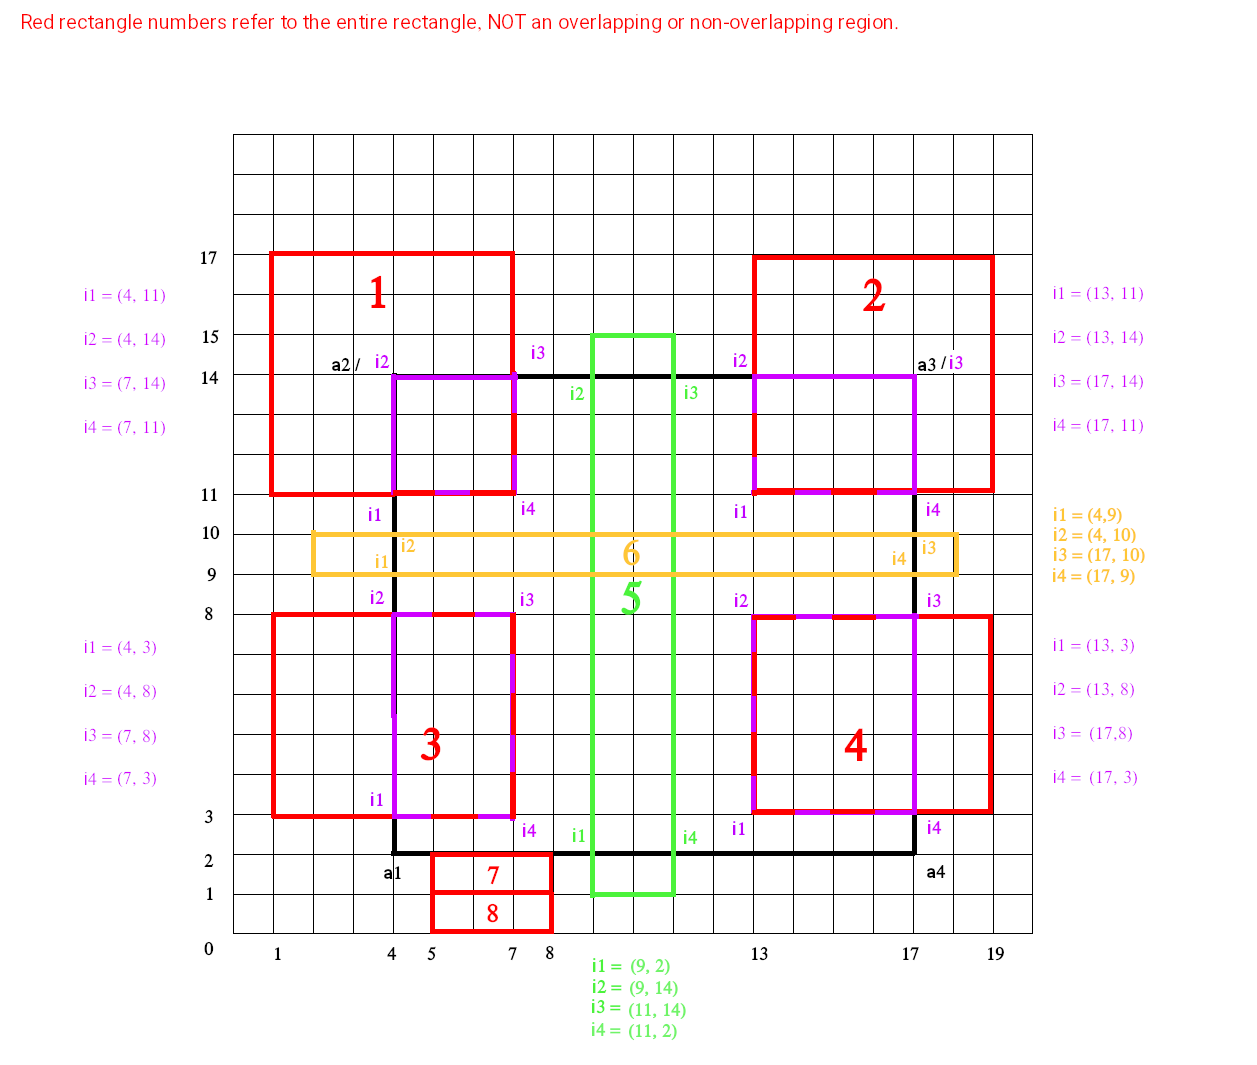
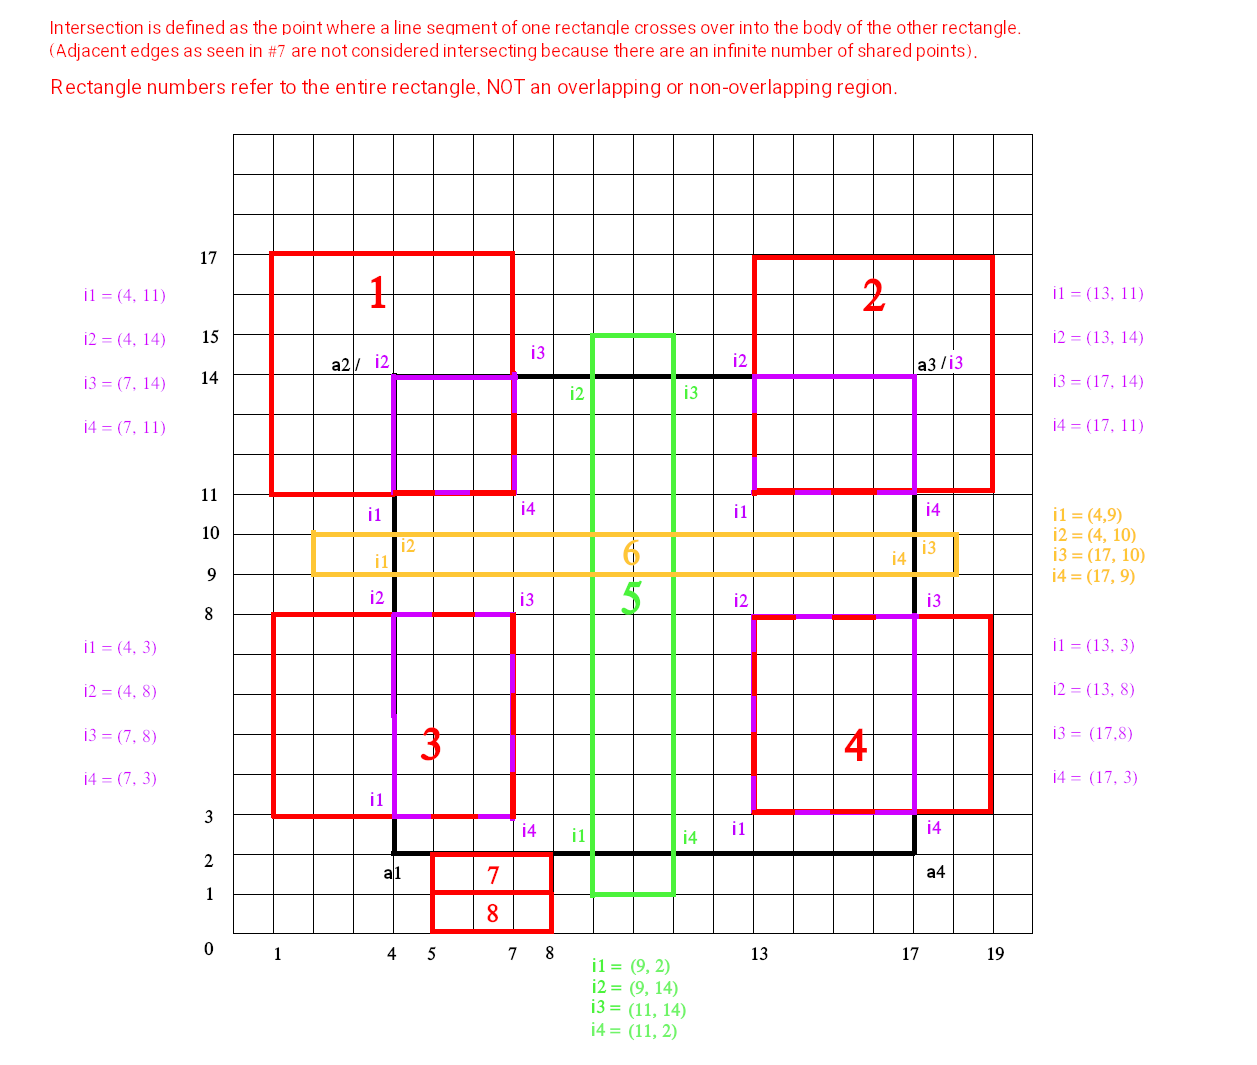
Null checks, various light edits

Changed region(s): [[0.031, 0.0, 0.8067, 0.093]]

diff --git a/src/test/java/org/loverde/rectangles/RectangleTest_getOverlappingRegion.java b/src/test/java/org/loverde/rectangles/RectangleTest_getOverlappingRegion.java
@@ -17,15 +17,21 @@ public class RectangleTest_getOverlappingRegion {
         );
     }
 
+    @Test
+    public void getOverlappingRegionWith_nullRectangle() {
+        final Exception e = assertThrows(IllegalArgumentException.class, () -> r1.getOverlappingRegionWith(null));
+        assertEquals("getOverlappingRegionWith:  rectangle cannot be null", e.getMessage());
+    }
+
     // See intersection.png, rectangle #1.  The bottom right of the rectangle overlaps with r1.
     @Test
-    public void getOverlappingRegion_bottomRightOfSecondRectangleOverlaps() {
+    public void getOverlappingRegionWith_bottomRightOfSecondRectangleOverlaps() {
         final Rectangle r2 = new Rectangle(
             new Point(1, 11),
             new Point(7, 17)
         );
 
-        final Rectangle iRect = r1.getOverlappingRegion(r2);
+        final Rectangle iRect = r1.getOverlappingRegionWith(r2);
 
         assertEquals(new Point(4, 11), iRect.getLowerLeft());
         assertEquals(new Point(4, 14), iRect.getUpperLeft());
@@ -35,13 +41,13 @@ public class RectangleTest_getOverlappingRegion {
 
     // See intersection.png, rectangle #2.  The bottom left of the rectangle overlaps with r1.
     @Test
-    public void getOverlappingRegion_bottomLeftOfSecondRectangleOverlaps() {
+    public void getOverlappingRegionWith_bottomLeftOfSecondRectangleOverlaps() {
         final Rectangle r2 = new Rectangle(
             new Point(13, 11),
             new Point(19, 17)
         );
 
-        final Rectangle iRect = r1.getOverlappingRegion(r2);
+        final Rectangle iRect = r1.getOverlappingRegionWith(r2);
 
         assertEquals(new Point(13, 11), iRect.getLowerLeft());
         assertEquals(new Point(13, 14), iRect.getUpperLeft());
@@ -51,13 +57,13 @@ public class RectangleTest_getOverlappingRegion {
 
     // See intersection.png, rectangle #3.  The entire right side of the rectangle overlaps with r1.
     @Test
-    public void getOverlappingRegion_rightSideOfSecondRectangleOverlaps() {
+    public void getOverlappingRegionWith_rightSideOfSecondRectangleOverlaps() {
         final Rectangle r2 = new Rectangle(
             new Point(1, 3),
             new Point(7, 8)
         );
 
-        final Rectangle iRect = r1.getOverlappingRegion(r2);
+        final Rectangle iRect = r1.getOverlappingRegionWith(r2);
 
         assertEquals(new Point(4, 3), iRect.getLowerLeft());
         assertEquals(new Point(4, 8), iRect.getUpperLeft());
@@ -67,13 +73,13 @@ public class RectangleTest_getOverlappingRegion {
 
     // See intersection.png, rectangle #4.  The entire left side of the rectangle overlaps with r1.
     @Test
-    public void getOverlappingRegion_leftSideOfSecondRectangleOverlaps() {
+    public void getOverlappingRegionWith_leftSideOfSecondRectangleOverlaps() {
         final Rectangle r2 = new Rectangle(
             new Point(13, 3),
             new Point(19, 8)
         );
 
-        final Rectangle iRect = r1.getOverlappingRegion(r2);
+        final Rectangle iRect = r1.getOverlappingRegionWith(r2);
 
         assertEquals(new Point(13, 3), iRect.getLowerLeft());
         assertEquals(new Point(13, 8), iRect.getUpperLeft());
@@ -83,13 +89,13 @@ public class RectangleTest_getOverlappingRegion {
 
     // See intersection.png, rectangle #5.  This time, there are four points of intersection.
     @Test
-    public void getOverlappingRegion_fromFourPointsOfIntersection1() {
+    public void getOverlappingRegionWith_fromFourPointsOfIntersection1() {
         final Rectangle r2 = new Rectangle(
             new Point(9, 1),
             new Point(11, 15)
         );
 
-        final Rectangle iRect = r1.getOverlappingRegion(r2);
+        final Rectangle iRect = r1.getOverlappingRegionWith(r2);
 
         assertEquals(new Point(9, 2), iRect.getLowerLeft());
         assertEquals(new Point(9, 14), iRect.getUpperLeft());
@@ -99,13 +105,13 @@ public class RectangleTest_getOverlappingRegion {
 
     // See intersection.png, rectangle #6.  This time, there are four points of intersection.
     @Test
-    public void getOverlappingRegion_fromFourPointsOfIntersection2() {
+    public void getOverlappingRegionWith_fromFourPointsOfIntersection2() {
         final Rectangle r2 = new Rectangle(
             new Point(4, 9),
             new Point(17, 10)
         );
 
-        final Rectangle iRect = r1.getOverlappingRegion(r2);
+        final Rectangle iRect = r1.getOverlappingRegionWith(r2);
 
         assertEquals(new Point(4, 9), iRect.getLowerLeft());
         assertEquals(new Point(4, 10), iRect.getUpperLeft());
@@ -115,29 +121,29 @@ public class RectangleTest_getOverlappingRegion {
 
     // See intersection.png, rectangle #7.  There are no overlapping regions.
     @Test
-    public void getOverlappingRegion_noIntersection() {
+    public void getOverlappingRegionWith_noIntersection() {
         final Rectangle r2 = new Rectangle(
             new Point(5,1),
             new Point(8, 2)
         );
 
-        assertNull(r1.getOverlappingRegion(r2));
+        assertNull(r1.getOverlappingRegionWith(r2));
     }
 
     // See intersection.png, rectangle #8.  There are no overlapping regions.
     @Test
-    public void getOverlappingRegion_noIntersection2() {
+    public void getOverlappingRegionWith_noIntersection2() {
         final Rectangle r2 = new Rectangle(
             new Point(5,0),
             new Point(8, 1)
         );
 
-        assertNull(r1.getOverlappingRegion(r2));
+        assertNull(r1.getOverlappingRegionWith(r2));
     }
 
     // If two identical rectangles are perfectly overlaid, they are regarded as overlapping
     @Test
-    public void getOverlappingRegion_perfectlyOverlapped() {
-        assertEquals(r1, r1.getOverlappingRegion(r1));
+    public void getOverlappingRegionWith_perfectlyOverlapped() {
+        assertEquals(r1, r1.getOverlappingRegionWith(r1));
     }
 }

diff --git a/src/main/java/org/loverde/rectangles/Rectangle.java b/src/main/java/org/loverde/rectangles/Rectangle.java
@@ -1,5 +1,6 @@
 package org.loverde.rectangles;
 
+import java.util.Collections;
 import java.util.HashSet;
 import java.util.Set;
 import java.util.Objects;
@@ -60,19 +61,23 @@ public class Rectangle {
     }
 
     /**
-     * Gets A rectangle representing the region of overlap between this rectangle and rectangle <em>r</em>.  This is
+     * Gets the rectangle representing the region of overlap between this rectangle and rectangle <em>r</em>.  This is
      * NOT a list of the points of intersection, though either 2 or 4 of these vertices ARE the points of intersection.
      * To get just the points of intersection, use {@link #getIntersectionsWith}.
      *
      * @param r The rectangle to calculate the overlap with
      *
-     * @return A rectangle representing the region of overlap between this rectangle and rectangle <em>r</em>, or
+     * @return The rectangle representing the region of overlap between this rectangle and rectangle <em>r</em>, or
      *         <em>null</em> if there is no shared region.
+     *
+     * @throws IllegalArgumentException If <em>r</em> is null
      */
-    public Rectangle getOverlappingRegion(final Rectangle r) {
+    public Rectangle getOverlappingRegionWith(final Rectangle r) {
+        if(r == null) throw new IllegalArgumentException("getOverlappingRegionWith:  rectangle cannot be null");
+
         if(equals(r)) return this;  // Perfectly aligned, identical rectangles can exit early
 
-        // To visualize what this algorithm is doing, look at rectangles 1 and 2 in junit_diagram.png.
+        // To visualize what this algorithm is doing, look at rectangles 1 and 2 in intersections.png.
         //
         // GETTING THE X VALUE OF THE ORIGIN (BOTTOM LEFT VERTEX):
         //
@@ -130,31 +135,36 @@ public class Rectangle {
      *
      * @param r2 The rectangle to get intersections with
      *
-     * @return Array containing 0, 2 or 4 points of intersection.  This method never returns null.
+     * @return An unmodifiable set containing 0, 2 or 4 points of intersection.  This method never returns null.
+     *
+     * @throws IllegalArgumentException If <em>r2</em> is null
      */
     public Set<Point> getIntersectionsWith(final Rectangle r2) {
-        final Rectangle iRect = getOverlappingRegion(r2);
+        if(r2 == null) throw new IllegalArgumentException("getIntersectionsWith:  rectangle cannot be null");
+
+        final Set<Point> intersections = new HashSet<>();
+        final Rectangle overlap = getOverlappingRegionWith(r2);
 
         // Okay, we have the overlap region, but which vertices are intersecting?  It could be 2 or all 4.
         // Intersections will have either an X value or a Y value in common.  If they have both in common,
         // then they have touching vertices, and thus are not intersecting.  So, it's either one or the
         // other.
 
-        final double r1x1 = getLowerLeft().getX();
-        final double r1y1 = getLowerLeft().getY();
-        final double r1x2 = getLowerRight().getX();
-        final double r1y2 = getLowerRight().getY();
+        if(overlap != null) {
+            final double r1x1 = getLowerLeft().getX();
+            final double r1y1 = getLowerLeft().getY();
+            final double r1x2 = getLowerRight().getX();
+            final double r1y2 = getLowerRight().getY();
 
-        final double r2x1 = r2.getLowerLeft().getX();
-        final double r2y1 = r2.getLowerLeft().getY();
-        final double r2x2 = r2.getUpperRight().getX();
-        final double r2y2 = r2.getUpperRight().getY();
-
-        final Set<Point> intersections = new HashSet<>();
-
+            final double r2x1 = r2.getLowerLeft().getX();
+            final double r2y1 = r2.getLowerLeft().getY();
+            final double r2x2 = r2.getUpperRight().getX();
+            final double r2y2 = r2.getUpperRight().getY();
 
 
-        return intersections;
+        }
+
+        return Collections.unmodifiableSet(intersections);
     }
 
     /**
@@ -164,8 +174,12 @@ public class Rectangle {
      * @param r2 The rectangle to test containment with
      *
      * @return True if containment exists, false if not
+     *
+     * @throws IllegalArgumentException If <em>r2</em> is null
      */
     public boolean hasContainmentWith(final Rectangle r2) {
+        if(r2 == null) throw new IllegalArgumentException("hasContainmentWith:  rectangle cannot be null");
+
         final double thisLeftX = getLowerLeft().getX();
         final double thisRightX = getLowerRight().getX();
         final double thisBottomY = getLowerLeft().getY();

diff --git a/src/test/java/org/loverde/rectangles/RectangleTest_hasContainmentWith.java b/src/test/java/org/loverde/rectangles/RectangleTest_hasContainmentWith.java
@@ -6,6 +6,18 @@ import static org.junit.jupiter.api.Assertions.*;
 
 public class RectangleTest_hasContainmentWith {
 
+    @Test
+    public void hasContainmentWith_nullRectangle() {
+        final Rectangle r = new Rectangle(
+            new Point(2, 17),
+            new Point(10, 22)
+        );
+
+        final Exception ex = assertThrows(IllegalArgumentException.class, () -> r.hasContainmentWith(null));
+
+        assertEquals("hasContainmentWith:  rectangle cannot be null", ex.getMessage());
+    }
+
     // See inset_rectangles.png set 1.  This has containment.
     @Test
     public void hasContainmentWith_true() {

diff --git a/src/test/java/org/loverde/rectangles/RectangleTest_getIntersectionsWith.java b/src/test/java/org/loverde/rectangles/RectangleTest_getIntersectionsWith.java
@@ -14,6 +14,12 @@ public class RectangleTest_getIntersectionsWith {
         new Point(17, 14)
     );
 
+    @Test
+    public void getIntersectionsWith_nullRectangle() {
+        final Exception e = assertThrows(IllegalArgumentException.class, () -> r1.getIntersectionsWith(null));
+        assertEquals("getIntersectionsWith:  rectangle cannot be null", e.getMessage());
+    }
+
     // See intersections.png #1
     @Test
     public void getIntersectionsWith_1() {
